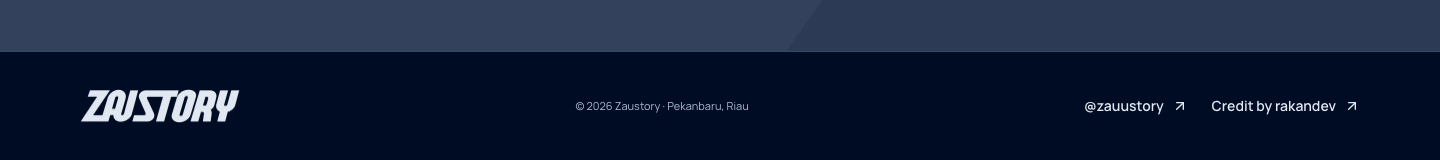
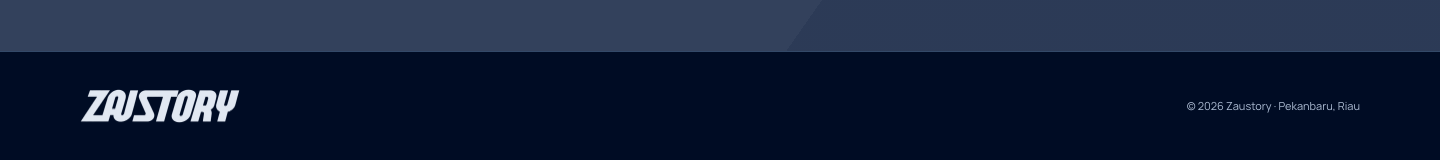
fix: move developer credit link onto footer copyright

Changed region(s): [[0.75, 0.625, 0.9688, 0.7188], [0.375, 0.625, 0.5312, 0.6875]]

diff --git a/src/components/site-footer.tsx b/src/components/site-footer.tsx
@@ -1,4 +1,3 @@
-import { ArrowUpRight } from 'lucide-react';
 import { BrandLogo } from '@/components/brand-logo';
 import { site } from '@/content/site';
 
@@ -7,29 +6,14 @@ export function SiteFooter() {
     <footer className="site-footer">
       <div className="container footer-inner">
         <BrandLogo />
-        <p>
+        <a
+          href="https://www.instagram.com/rakandevv/"
+          target="_blank"
+          rel="noopener noreferrer"
+          className="text-link footer-copyright"
+        >
           &copy; {new Date().getFullYear()} Zaustory &middot; {site.location}
-        </p>
-        <div className="footer-links">
-          <a
-            href={site.instagram}
-            target="_blank"
-            rel="noopener noreferrer"
-            className="text-link"
-          >
-            {site.instagramHandle}
-            <ArrowUpRight size={16} aria-hidden="true" />
-          </a>
-          <a
-            href="https://www.instagram.com/rakandevv/"
-            target="_blank"
-            rel="noopener noreferrer"
-            className="text-link"
-          >
-            Credit by rakandev
-            <ArrowUpRight size={16} aria-hidden="true" />
-          </a>
-        </div>
+        </a>
       </div>
     </footer>
   );

diff --git a/tests/e2e/portfolio.spec.ts b/tests/e2e/portfolio.spec.ts
@@ -84,9 +84,18 @@ test('shows the public Instagram identity, local contact, and profile credits', 
   await expect(
     contact.getByRole('link', { name: 'Telepon +62 838-5465-3003' }),
   ).toHaveAttribute('href', 'tel:+6283854653003');
-  await expect(
-    page.getByRole('contentinfo').getByRole('link', { name: '@zauustory' }),
-  ).toHaveAttribute('href', 'https://www.instagram.com/zauustory/');
+  const footer = page.getByRole('contentinfo');
+  const copyright = footer.getByRole('link', {
+    name: /^© \d{4} Zaustory · Pekanbaru, Riau$/,
+  });
+  await expect(copyright).toHaveAttribute(
+    'href',
+    'https://www.instagram.com/rakandevv/',
+  );
+  await expect(copyright).toHaveAttribute('rel', 'noopener noreferrer');
+  await expect(footer.getByRole('link')).toHaveCount(2);
+  await expect(footer.getByText('Credit by rakandev')).toHaveCount(0);
+  await expect(footer.getByText('@zauustory')).toHaveCount(0);
   await expect(
     page.locator('a[href="https://www.instagram.com/zaustory/"]'),
   ).toHaveCount(0);

diff --git a/src/app/globals.css b/src/app/globals.css
@@ -1020,15 +1020,10 @@ svg {
 .footer-inner .brand-logo-image {
   width: 160px;
 }
-.footer-inner > p {
+.footer-copyright {
   color: var(--text-secondary);
   font-size: 11px;
-}
-.footer-links {
-  display: flex;
-  flex-wrap: wrap;
-  gap: 0 var(--space-6);
-  font-size: 12px;
+  font-weight: 400;
 }
 
 .album-page {
@@ -1558,8 +1553,7 @@ svg {
   .footer-inner {
     gap: var(--space-4);
   }
-  .footer-inner > p {
-    order: 3;
+  .footer-copyright {
     flex-basis: 100%;
   }
   .album-page {

diff --git a/specs/progress.md b/specs/progress.md
@@ -263,3 +263,9 @@ Permintaan pemilik: tambahkan "Credit by rakandev" ke https://www.instagram.com/
 Verifikasi aktual: npm run lint, npm run build (termasuk TypeScript, 10 keluaran statis), npm run format:check dan git diff --check keluar 0. Delapan E2E terarah lulus dalam 14.3 detik pada Chromium desktop/ponsel: identitas/tautan lama tetap ada, tanpa overflow 320/390/768/1440px, axe tanpa pelanggaran pada beranda/detail/404, screenshot. Pemeriksaan HTML hasil build membuktikan satu kredit, URL, target dan rel yang benar pada tujuh halaman memakai layout situs (beranda, lima album, 404). Halaman global error bawaan Next.js tidak memakai footer. Screenshot footer desktop/ponsel diperiksa visual. Unit dan suite E2E penuh tidak diulang untuk perubahan presentasi kecil ini; tidak ada dependensi baru.
 
 Bukti: [footer desktop](../docs/evidence/footer-credit-desktop.png) dan [footer ponsel](../docs/evidence/footer-credit-mobile.png). Tidak ada perubahan deployment.
+
+## Koreksi penempatan kredit footer, 2026-10-20
+
+Pemilik memperjelas: cukup tautan pada baris copyright. Baris "© [tahun berjalan] Zaustory · Pekanbaru, Riau" kini menautkan https://www.instagram.com/rakandevv/. Tautan @zauustory dan teks "Credit by rakandev" yang terpisah dihapus; logo tetap menuju beranda. Koreksi disimpan di design brief. CSS grup tautan yang tidak terpakai dihapus; target interaktif copyright minimal 44px.
+
+Verifikasi aktual: lint dan build termasuk TypeScript lulus, 10 keluaran statis. Delapan E2E terarah lulus dalam 12.6 detik pada desktop/ponsel, termasuk URL copyright, ketiadaan dua teks lama, jumlah dua tautan footer (logo dan copyright), overflow 320/390/768/1440px, axe dan screenshot. Bukti footer desktop/ponsel pada tautan sebelumnya diperbarui dari suite produksi lokal yang lulus dan diperiksa visual. Unit serta suite E2E penuh tidak diulang untuk perubahan ini. Tidak ada dependensi atau deployment baru.

diff --git a/.ui-craft/brief.md b/.ui-craft/brief.md
@@ -39,6 +39,8 @@ Pengunjung mengenali lima kategori, membuka detail, dan menemukan Instagram mela
 - 2026-10-20: Tentang berada tepat setelah dua baris foto, sebelum album. Tambahkan potret fotografer dari sumber hero; ikon sementara sampai aset tersedia. Setiap section mendapat entrance saat masuk layar, sekali saja agar scroll berulang tetap tenang; reduced motion dan konten tanpa JavaScript tetap didukung.
 - 2026-10-20: Copy dan informasi mengikuti profil publik @zauustory: Pekanbaru/Riau, kredit @rzzwadzaky, media partner @langkaahsenja_, telepon. Gunakan bahasa kasual profesional, konkret, tanpa klaim harga/pengalaman baru atau kutipan caption yang tertutup login. Nomor telepon tidak otomatis menjadi WhatsApp. Brand tetap Zaustory; foto memakai ikon sampai tersedia aset berizin.
 
+- 2026-10-20: Kredit pengembang menyatu sebagai tautan pada baris copyright ke Instagram rakandev. Hapus tautan @zauustory dan teks Credit by rakandev yang terpisah agar footer ringkas; logo tetap menuju beranda.
+
 # 7. Fold classes used
 
 - 2026-10-20: type-only. Foto asli belum tersedia; hero tipografis dan slot sampul album berstatus kosong. Pemilihan manual karena tool fold_candidates tidak tersedia.

diff --git a/specs/components.md b/specs/components.md
@@ -4,7 +4,7 @@
 | ---------------- | -------------------------------------------------------------------------------------------------------- |
 | BrandLogo        | Logo transparan asli, proporsi tetap, tautan beranda bernama aksesibel                                   |
 | SiteHeader       | BrandLogo, anchor, disclosure ponsel, fokus dan Escape                                                   |
-| SiteFooter       | Instagram, copyright tahun berjalan                                                                      |
+| SiteFooter       | Logo beranda dan copyright tahun berjalan bertaut ke Instagram rakandev; tanpa tautan sosial terpisah    |
 | AlbumCollection  | Filter Semua/Olahraga/Event, pengumuman jumlah                                                           |
 | AlbumCard        | Tautan detail; kategori, judul, deskripsi di dalam thumbnail; tanpa angka jumlah foto                    |
 | PhotoReel        | Dua baris dekoratif dari foto seluruh album, arah berlawanan, jeda/putar, reduced motion                 |

diff --git a/docs/content-sources.md b/docs/content-sources.md
@@ -7,7 +7,7 @@ Sumber utama: [profil publik @zauustory](https://www.instagram.com/zauustory/), 
 | Informasi         | Isi profil                | Penggunaan web                                                  |
 | ----------------- | ------------------------- | --------------------------------------------------------------- |
 | Nama profil       | Zau Story \| Agency Media | Lead Tentang                                                    |
-| Handle            | @zauustory                | Tautan Instagram hero, kontak, footer, fallback album           |
+| Handle            | @zauustory                | Tautan Instagram hero, kontak, fallback album                   |
 | Lokasi            | Pekanbaru-Riau            | Hero, Tentang, footer, metadata                                 |
 | Jenis akun        | Photography account       | Cakupan fotografi; kategori mengikuti sorotan dan brief pemilik |
 | Kredit fotografer | @rzzwadzaky               | Kredit potret dan tautan fotografer di Tentang                  |
